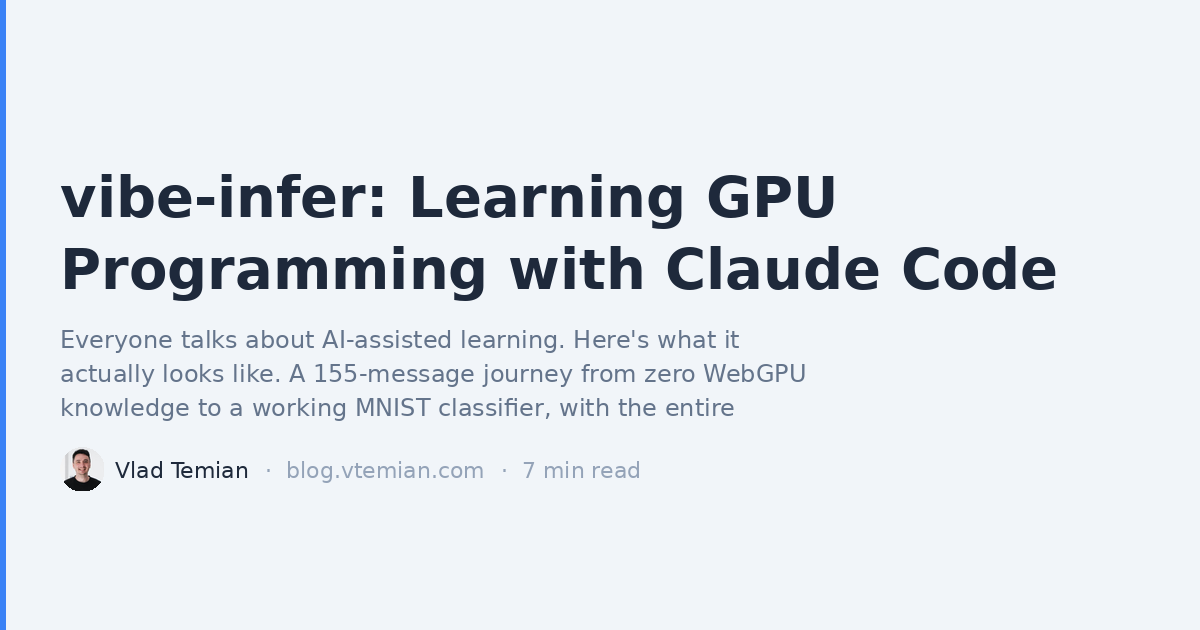
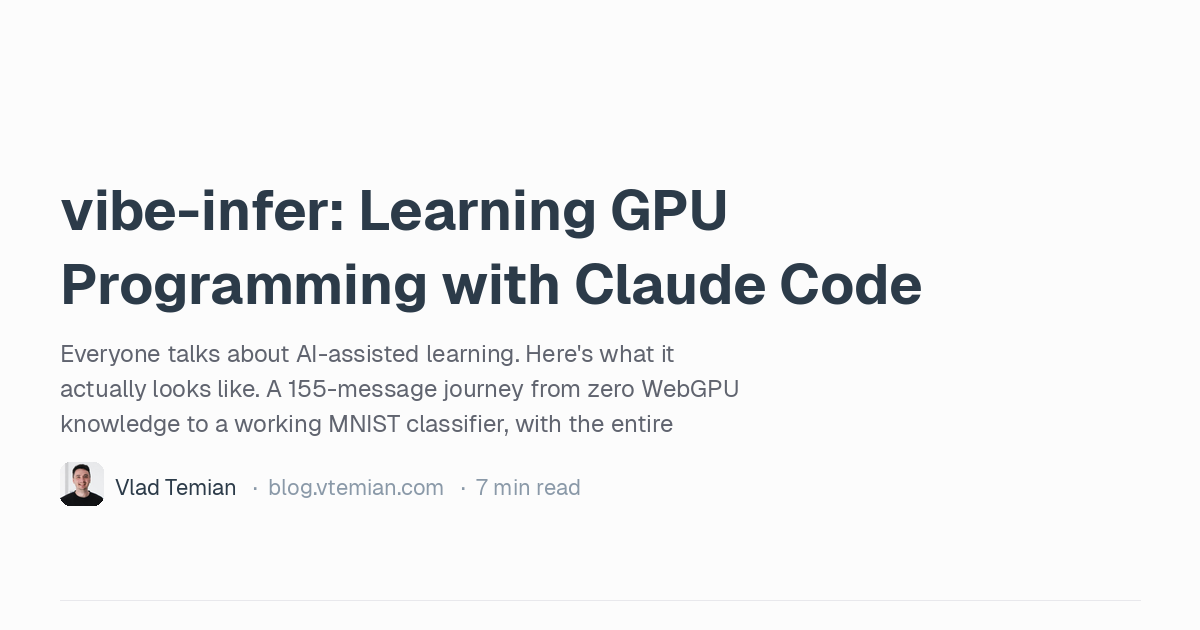
deploy: f4344e1fe07b2ace512081759dce14a286b3acad

Changed region(s): [[0.0, 0.0, 0.8942, 1.0]]

diff --git a/post/vibe-infer/index.html b/post/vibe-infer/index.html
@@ -1,4 +1,4 @@
-<!doctype html><html lang=en><head><script>localStorage.getItem("theme")==="dark"&&document.documentElement.classList.add("dark")</script><meta http-equiv=X-UA-Compatible content="IE=edge"><meta name=viewport content="width=device-width,minimum-scale=1"><link rel=preconnect href=https://cdn.jsdelivr.net crossorigin><link rel=stylesheet href=https://cdn.jsdelivr.net/npm/geist@1/dist/fonts/geist-sans/style.css><link rel=stylesheet href=https://cdn.jsdelivr.net/npm/geist@1/dist/fonts/geist-mono/style.css><link rel=stylesheet href=//cdnjs.cloudflare.com/ajax/libs/highlight.js/11.9.0/styles/nord.min.css><script src=//cdnjs.cloudflare.com/ajax/libs/highlight.js/11.9.0/highlight.min.js></script><script>hljs.highlightAll()</script><meta charset=utf-8><meta name=robots content="index,follow"><link rel=canonical href=https://blog.vtemian.com/post/vibe-infer/><link rel=icon type=image/svg+xml href=https://blog.vtemian.com/favicon.svg><link rel=apple-touch-icon href=https://blog.vtemian.com/favicon.svg><meta name=keywords content="gpu programming,webgpu,claude code,ai assisted learning,vibe coding,mnist,compute shaders"><meta name=description content="Everyone talks about AI-assisted learning. Here's what it actually looks like. A 155-message journey from zero WebGPU knowledge to a working MNIST classifier, with the entire conversation captured and browsable."><meta property="og:url" content="https://blog.vtemian.com/post/vibe-infer/"><meta property="og:site_name" content="Vlad Temian - Centrist Tech Optimist"><meta property="og:title" content="vibe-infer: Learning GPU Programming with Claude Code"><meta property="og:description" content="Everyone talks about AI-assisted learning. Here's what it actually looks like. A 155-message journey from zero WebGPU knowledge to a working MNIST classifier, with the entire conversation captured and browsable."><meta property="og:locale" content="en_US"><meta property="og:type" content="article"><meta property="article:published_time" content="2026-02-18T12:00:00+02:00"><meta property="article:modified_time" content="2026-02-18T12:00:00+02:00"><meta property="article:tag" content="Gpu Programming"><meta property="article:tag" content="Ai Tools"><meta property="article:tag" content="Webgpu"><meta property="article:tag" content="Learning"><meta name=twitter:card content="summary_large_image"><meta name=twitter:title content="vibe-infer: Learning GPU Programming with Claude Code"><meta name=twitter:description content="Everyone talks about AI-assisted learning. Here's what it actually looks like. A 155-message journey from zero WebGPU knowledge to a working MNIST classifier, with the entire conversation captured and browsable."><script type=application/ld+json>{"@context":"https://schema.org","@type":"BlogPosting","mainEntityOfPage":{"@type":"WebPage","@id":"https:\/\/blog.vtemian.com\/post\/vibe-infer\/"},"headline":"vibe-infer: Learning GPU Programming with Claude Code","description":"Everyone talks about AI-assisted learning. Here\u0027s what it actually looks like. A 155-message journey from zero WebGPU knowledge to a working MNIST classifier, with the entire conversation captured and browsable.","inLanguage":"en-US","author":{"@type":"Person","name":"Vlad Temian","url":"https:\/\/blog.vtemian.com\/","sameAs":["https://github.com/vtemian","https://linkedin.com/in/vtemian","https://x.com/vtemian"]},"publisher":{"@type":"Person","name":"Vlad Temian"},"datePublished":"2026-02-18T12:00:00\u002b02:00","dateModified":"2026-02-18T12:00:00\u002b02:00","url":"https:\/\/blog.vtemian.com\/post\/vibe-infer\/","wordCount":1234,"timeRequired":"PT6M","keywords":["gpu programming","ai tools","webgpu","learning"]}</script><script type=application/ld+json>{"@context":"https://schema.org","@type":"BreadcrumbList","itemListElement":[{"@type":"ListItem","position":1,"name":"Home","item":"https:\/\/blog.vtemian.com\/"},{"@type":"ListItem","position":2,"name":"Post","item":"https:\/\/blog.vtemian.com\/post/"},{"@type":"ListItem","position":3,"name":"vibe-infer: Learning GPU Programming with Claude Code","item":"https:\/\/blog.vtemian.com\/post\/vibe-infer\/"}]}</script><title>vibe-infer: Learning GPU Programming with Claude Code</title>
+<!doctype html><html lang=en><head><script>localStorage.getItem("theme")==="dark"&&document.documentElement.classList.add("dark")</script><meta http-equiv=X-UA-Compatible content="IE=edge"><meta name=viewport content="width=device-width,minimum-scale=1"><link rel=preconnect href=https://cdn.jsdelivr.net crossorigin><link rel=stylesheet href=https://cdn.jsdelivr.net/npm/geist@1/dist/fonts/geist-sans/style.css><link rel=stylesheet href=https://cdn.jsdelivr.net/npm/geist@1/dist/fonts/geist-mono/style.css><link rel=stylesheet href=//cdnjs.cloudflare.com/ajax/libs/highlight.js/11.9.0/styles/nord.min.css><script src=//cdnjs.cloudflare.com/ajax/libs/highlight.js/11.9.0/highlight.min.js></script><script>hljs.highlightAll()</script><meta charset=utf-8><meta name=robots content="index,follow"><link rel=canonical href=https://blog.vtemian.com/post/vibe-infer/><link rel=icon type=image/svg+xml href=https://blog.vtemian.com/favicon.svg><link rel=apple-touch-icon href=https://blog.vtemian.com/favicon.svg><meta name=keywords content="gpu programming,webgpu,claude code,ai assisted learning,vibe coding,mnist,compute shaders"><meta name=description content="Everyone talks about AI-assisted learning. Here's what it actually looks like. A 155-message journey from zero WebGPU knowledge to a working MNIST classifier, with the entire conversation captured and browsable."><meta property="og:url" content="https://blog.vtemian.com/post/vibe-infer/"><meta property="og:site_name" content="Vlad Temian - Centrist Tech Optimist"><meta property="og:title" content="vibe-infer: Learning GPU Programming with Claude Code"><meta property="og:description" content="Everyone talks about AI-assisted learning. Here's what it actually looks like. A 155-message journey from zero WebGPU knowledge to a working MNIST classifier, with the entire conversation captured and browsable."><meta property="og:locale" content="en_US"><meta property="og:type" content="article"><meta property="article:published_time" content="2026-02-18T12:00:00+02:00"><meta property="article:modified_time" content="2026-02-18T12:00:00+02:00"><meta property="article:tag" content="Gpu Programming"><meta property="article:tag" content="Ai Tools"><meta property="article:tag" content="Webgpu"><meta property="article:tag" content="Learning"><meta property="og:image" content="https://blog.vtemian.com/post/vibe-infer/og.png"><meta name=twitter:card content="summary_large_image"><meta name=twitter:title content="vibe-infer: Learning GPU Programming with Claude Code"><meta name=twitter:description content="Everyone talks about AI-assisted learning. Here's what it actually looks like. A 155-message journey from zero WebGPU knowledge to a working MNIST classifier, with the entire conversation captured and browsable."><meta name=twitter:image content="https://blog.vtemian.com/post/vibe-infer/og.png"><script type=application/ld+json>{"@context":"https://schema.org","@type":"BlogPosting","mainEntityOfPage":{"@type":"WebPage","@id":"https:\/\/blog.vtemian.com\/post\/vibe-infer\/"},"headline":"vibe-infer: Learning GPU Programming with Claude Code","description":"Everyone talks about AI-assisted learning. Here\u0027s what it actually looks like. A 155-message journey from zero WebGPU knowledge to a working MNIST classifier, with the entire conversation captured and browsable.","inLanguage":"en-US","author":{"@type":"Person","name":"Vlad Temian","url":"https:\/\/blog.vtemian.com\/","sameAs":["https://github.com/vtemian","https://linkedin.com/in/vtemian","https://x.com/vtemian"]},"publisher":{"@type":"Person","name":"Vlad Temian"},"datePublished":"2026-02-18T12:00:00\u002b02:00","dateModified":"2026-02-18T12:00:00\u002b02:00","url":"https:\/\/blog.vtemian.com\/post\/vibe-infer\/","wordCount":1234,"timeRequired":"PT6M","keywords":["gpu programming","ai tools","webgpu","learning"]}</script><script type=application/ld+json>{"@context":"https://schema.org","@type":"BreadcrumbList","itemListElement":[{"@type":"ListItem","position":1,"name":"Home","item":"https:\/\/blog.vtemian.com\/"},{"@type":"ListItem","position":2,"name":"Post","item":"https:\/\/blog.vtemian.com\/post/"},{"@type":"ListItem","position":3,"name":"vibe-infer: Learning GPU Programming with Claude Code","item":"https:\/\/blog.vtemian.com\/post\/vibe-infer\/"}]}</script><title>vibe-infer: Learning GPU Programming with Claude Code</title>
 <link rel=stylesheet href=https://blog.vtemian.com/stylesheets/main.min.bf6f543d20d329f97b1ea989f7ccd774a56857411fdc6adbd08979e4303a450e.css media=screen><meta name=google-site-verification content="2qk_e0y84NNSVpaorKgeNURYF9Ni3UyJvPq9GZdGEgs"></head><body class="bg-bg font-sans text-sm leading-relaxed text-ink antialiased"><div class="mx-auto flex max-w-2xl flex-col gap-12 px-5 py-12"><a href=https://blog.vtemian.com/ class="font-mono text-xs tracking-wide text-muted">Back</a><article class="flex flex-col gap-12"><header class="flex flex-col gap-2"><h1 class=text-2xl>vibe-infer: Learning GPU Programming with Claude Code</h1><p class="text-xs text-link">February 2026</p></header><div class="flex flex-col gap-4"><p>Everyone has a story about how AI helped them learn something. &ldquo;I asked ChatGPT to explain monads and it finally clicked.&rdquo; Cool. But where&rsquo;s the actual session? Where&rsquo;s the messy back-and-forth where you got confused, the AI corrected you, and you iterated until understanding emerged?</p><p>Most AI-assisted learning stories are sanitized after the fact. You get the polished takeaway, not the process. The repo is called <a href=https://github.com/vtemian/vibe-infer>vibe-infer</a> and that&rsquo;s intentional irony, because what happened here is the opposite of vibe coding. I wrote every line of GPU code. The AI was my tutor, not my ghostwriter.</p><p>This article shows the receipts. 155 messages, captured in full, from zero WebGPU knowledge to a working MNIST classifier running compute shaders in the browser.</p><h2 id=why-gpu-programming>Why GPU Programming?</h2><p>GPU programming requires a fundamentally different mental model from writing regular application code. On a CPU, you think sequentially: fetch data, process it, return a result. On a GPU, thousands of threads execute the same instruction simultaneously across different data. You stop thinking about loops and start thinking about thread indices, workgroups, and memory barriers.</p><p><a href=https://developer.mozilla.org/en-US/docs/Web/API/WebGPU_API>WebGPU</a> is the modern browser API for GPU compute. Not just graphics rendering, but general-purpose parallel computation. The shader language is <a href=https://www.w3.org/TR/WGSL/>WGSL</a>, which looks like Rust but with its own type system and execution model. Buffers are raw bytes. There are no arrays in the JavaScript sense. You manage memory layout, type alignment, and dispatch dimensions manually.</p><p>I wanted to build a neural network from scratch on the GPU. Not by importing a framework, but by writing every compute shader by hand. Matrix multiplication, ReLU activation, softmax normalization, forward pass chaining. The goal was understanding the machinery, not just producing a working demo.</p><h2 id=the-approach-claude-as-tutor>The Approach: Claude as Tutor</h2><p>I used <a href=https://claude.ai/code>Claude Code</a>, Anthropic&rsquo;s agentic coding tool, as a pair programming partner. But the first thing I established was the dynamic: Claude guides, I write. It explains concepts, reviews my code, catches mistakes. It does not write GPU code for me.</p><iframe style=width:100%;height:1000px;border:none src="https://claudebin.com/threads/jmdbMowNTz/embed?from=7&to=10"></iframe><p>With the ground rules set, three dynamics emerged.</p><p><strong>I write the GPU code, Claude reviews it.</strong> Every compute shader, every buffer allocation, every dispatch call was written by my hands. Claude&rsquo;s role was code reviewer: catching syntax errors, pointing out API misuse, explaining GPU-specific type requirements. When I used <code>0</code> instead of <code>0.0</code> in a WGSL shader, Claude didn&rsquo;t just flag it. It explained why WGSL enforces strict typing and what happens when type coercion fails on the GPU.</p><p><strong>Claude handles the boilerplate.</strong> HTML scaffolding, CSS layout, the canvas drawing interface. None of that teaches GPU programming. Offloading it meant I could spend 100% of my mental energy on the hard, interesting parts: how workgroups distribute threads, why uniform buffers need 16-byte alignment, how reduction operations work in softmax.</p><p><strong>My pace, my depth.</strong> Unlike a course with a fixed curriculum, I controlled when to go deeper and when to move on. If workgroup scheduling fascinated me, I could ask Claude to explain dispatch dimensions three different ways. If I already understood buffer creation, I could skip ahead. The curriculum emerged from the conversation, shaped by my curiosity and my gaps.</p><h2 id=the-journey-8-lessons-from-zero-to-inference>The Journey: 8 Lessons from Zero to Inference</h2><p>The session naturally organized itself into eight progressive lessons.</p><p>It started with <strong>WebGPU Bootstrap</strong>: acquiring a GPU adapter and device. The &ldquo;hello world&rdquo; of GPU programming. Then a <strong>First Compute Shader</strong> that added two numbers on the GPU. Simple, but it proved the entire pipeline worked: buffer creation, shader compilation, command encoding, dispatch, and result readback.</p><p><strong>Matrix Multiplication</strong> was where things got real. This is the core operation of neural networks, and on the GPU, each thread computes a single element of the output matrix. You index into flat memory using <code>row * numColumns + col</code> because GPU buffers have no concept of rows or columns. Just raw bytes.</p><p><strong>ReLU Activation</strong> was a welcome breather. An &ldquo;embarrassingly parallel&rdquo; operation where every element is independent. No coordination between threads, no shared state. Just <code>max(value, 0.0)</code> across thousands of elements simultaneously.</p><p><strong>Softmax</strong> was the hardest shader. Unlike ReLU, every output element depends on every other element. You need three passes: find the maximum (for numerical stability), compute exponentials and their sum, then normalize. Getting this right meant understanding reduction operations, race conditions, and why naively exponentiating large numbers produces infinity.</p><p>The <strong>Forward Pass</strong> chained all kernels together. The critical insight here: keep data on the GPU between operations. Reading results back to JavaScript after each step would kill performance. One command encoder, multiple compute passes, data flowing between buffers without ever touching the CPU.</p><p><strong>Real Weights</strong> brought the system to life. A Python script trained a 784-to-128-to-10 network on MNIST (97.5% accuracy), exported the weights as raw binary, and loaded them into GPU buffers. The final lesson was an <strong>Interactive Canvas Demo</strong>: draw a digit, watch the GPU classify it in real-time.</p><p>Here&rsquo;s what the learning actually looked like. I implemented the matrix multiplication kernel, and Claude reviewed my code line by line.</p><iframe style=width:100%;height:1000px;border:none src="https://claudebin.com/threads/jmdbMowNTz/embed?from=55&to=62"></iframe><p>Buffer sizes in bytes, not elements. Uniform buffers need 16-byte alignment. Missing builtin parameters for thread identification. These are GPU-specific gotchas that a textbook mentions in a footnote. A tutor catches them in your actual code and explains why they matter.</p><h2 id=what-made-this-different>What Made This Different</h2><p>Two things separated this from reading documentation or watching a YouTube tutorial.</p><p><strong>The learning was personalized.</strong> I didn&rsquo;t follow someone else&rsquo;s idea of what order to learn things. When Claude introduced softmax and I didn&rsquo;t fully grasp why subtracting the maximum before exponentiation prevents overflow, I asked it to explain numerical stability from first principles. We went down that rabbit hole until it clicked. When I already understood ReLU from prior ML experience, we spent thirty seconds on it and moved on. No filler, no padding, no waiting for the rest of the class.</p><p>This is the part that surprised me most. I could verify my understanding in real-time. The loop looked like this: I write a shader, Claude reads it, finds the bugs I can&rsquo;t see yet, and explains not just <em>what&rsquo;s</em> wrong but <em>why</em> GPU programming works that way. It&rsquo;s not Q&amp;A. It&rsquo;s closer to a code review where the reviewer happens to be infinitely patient and knows every corner of the WebGPU spec.</p><p>The difference from vibe coding is worth stating plainly. In vibe coding, the AI writes the code and you ship it. Here, I wrote the code and the AI made sure I understood it. Every bug Claude caught was a concept I internalized. Every correction was a lesson I wouldn&rsquo;t need to learn again. The understanding compounds in a way that copy-pasting from an AI chat never does.</p><h2 id=the-result>The Result</h2><p>And then it worked.</p><iframe style=width:100%;height:900px;border:none src="https://claudebin.com/threads/jmdbMowNTz/embed?from=130&to=136"></iframe><p>Digit 7, classified at 99.95% confidence. Eight lessons of compute shaders, buffer management, and type wrestling, running entirely in the browser. No backend, no ML framework, no CUDA. Just WebGPU, WGSL, and a neural network I built from scratch.</p><p>You can <a href=https://vtemian.github.io/vibe-infer/>try the live demo</a> or browse <a href=https://github.com/vtemian/vibe-infer>the source code</a>. Every GPU line was written by hand. The repo includes a <a href=https://github.com/vtemian/vibe-infer/blob/main/LESSONS.md>LESSONS.md</a> file summarizing what each lesson covered.</p><p>The entire 155-message session is captured and browsable at <a href=https://claudebin.com/threads/jmdbMowNTz>claudebin.com</a>. I built <a href=https://github.com/wunderlabs-dev/claudebin.com>claudebin</a> with <a href=https://github.com/balajmarius>Marius</a> as an open-source tool for sharing Claude Code sessions. If you&rsquo;re using Claude Code and want to share a session with your team or publicly, it&rsquo;s one command to publish and get a shareable link.</p><p>Stay curious ☕</p></div></article><footer class="flex justify-between text-xs text-link"><span>&copy; 2026 <a href=https://github.com/vtemian>Vlad Temian</a></span>
 <span>Order within chaos.</span></footer></div><script type=module>
     import mermaid from 'https://cdn.jsdelivr.net/npm/mermaid@11/dist/mermaid.esm.min.mjs';
